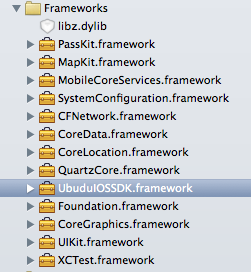
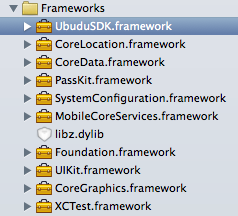
Updated markdown documentation.

diff --git a/README.md b/README.md
@@ -17,31 +17,23 @@ Starting to use the Ubudu SDK on IOS native app should be a 5 to 10 minutes proc
 
 1. Copy UbuduSDK.framework into your project directory and then drag & drop it into the Frameworks folder of your project in XCode.
 
-2. Add the following frameworks to your project:
-  - QuartzCore.framework
+2. Add the following frameworks to your project if their are not already present:
   - CoreLocation.framework
   - CoreData.framework
-  - CFNetwork.framework
+  - PassKit.framework
   - SystemConfiguration.framework
   - MobileCoreServices.framework
-  - MapKit.framework
-  - PassKit.framework
   - libz.dylib
-
-3. Check that these frameworks are also present:
-  - UIKit.framework
-  - CoreGraphics.framework
-  - Foundation.framework
 
   Your framework folder should look like this:
 
   ![Framework list](/__media-files/images/ios_frameworks_list.png) 
 
-4. Go to Target -> Other Linker Flags and add the following flags: *-ObjC -all_load*
+3. Go to Your Target -> "Build Settings" tab -> "Other Linker Flags" and add the following flags: *-ObjC -all_load*
 
   ![Linker flag](/__media-files/images/ios_linker_flags.png) 
 
-5. In your Info.plist add the "location" capability to the "Required background modes" section. In case you plan to use Maps or Passbook in your proximity aware app don't forget also to enable these capabilities. You can do this in the general settings of your project:
+4. In your Info.plist add the "location" capability to the "Required background modes" section. In case you plan to use Maps or Passbook in your proximity aware app don't forget also to enable these capabilities. You can do this in the general settings of your project:
 
   ![Capabilities](/__media-files/images/ios_capabilities.png) 
 
@@ -51,12 +43,11 @@ Starting to use the Ubudu SDK on IOS native app should be a 5 to 10 minutes proc
 To start the SDK use the following code:
 
 ```objective-c
-NSError *error = nil; 
-UbuduSDK *ubuduSDK = [UbuduSDK sharedInstance];
-ubuduSDK.application = [UIApplication sharedApplication];
-ubuduSDK.useNamespace = @"634b207ee2f313c109c58675b44324ac2d41e61e";
-ubuduSDK.delegate = self;
-BOOL started = [ubuduSDK start:&error];
+NSError *error = nil;
+[UbuduSDK sharedInstance].application = [UIApplication sharedApplication];
+[UbuduSDK sharedInstance].useNamespace = @"634b207ee2f313c109c58675b44324ac2d41e61e";
+[UbuduSDK sharedInstance].delegate = self;
+BOOL started = [[UbuduSDK sharedInstance] start:&error];
 if (!started) {
     NSLog(@"UbuduSDK start error: %@", error);
     // Handle error
@@ -73,7 +64,7 @@ The sample resume call can look like this
     NSError *error = nil;
     [[UbuduSDK sharedInstance] resume:application launchOptions:launchOptions error:&error];
   
-  // Rest of app init code…
+    // Rest of app init code…
 }
 ```
 
@@ -81,8 +72,7 @@ Calling **resume:launchOptions:error** method will not start the SDK if it wasn'
 
 When you want the SDK to stop working in the background call 
 ```objective-c
-UbuduSDK *ubuduSDK = [UbuduSDK sharedInstance];
-[ubuduSDK stop];
+[[UbuduSDK sharedInstance] stop];
 ```
 Stopping the SDK will stop it from updating location and tracking geofences.
 
@@ -91,50 +81,37 @@ Full example on how to initialize and start the SDK:
 ```objective-c
 /* AppDelegate.m */
 #import <UbuduSDK/UbuduSDK.h>
-...
+
 @implementation UDAppDelegate
 
 - (BOOL)application:(UIApplication *)application didFinishLaunchingWithOptions:(NSDictionary *)launchOptions
 {
-  //...start initilializations
+  // Mandatory in didFinishLaunchingWithOptions, restores the SDK state
+  NSError *error = nil;
+  [[UbuduSDK sharedInstance] resume:application launchOptions:launchOptions error:&error];
+  if (error != nil) {
+      NSLog(@"UbuduSDK resume error: %@", error);
+  }
 
-  // You can perform this task where you want to start the SDK 
+  // You can perform this task where you want to start the SDK, but the AppDelegate is a good choice
   [self initUbuduSDK];
 
-  // Mandatory in didFinishLaunchingWithOptions
-  NSError * error = nil;
-  [[UbuduSDK sharedInstance] resume:application launchOptions:launchOptions error:&error];
-
-  //...finish initializations
-
+  //...finish app initialization
 }
-
-#pragma mark - UbuduSDK
 
 - (void)initUbuduSDK
 {
-    NSError *error = nil;
-    BOOL deviceSupportsGeofences = [UbuduSDK deviceSupportsGeofences:[UIDevice currentDevice] error:&error];
-    if (error != nil)
-        NSLog(@"UbuduSDK error with deviceSupportsGeofences: %@", error);
-    
-    error = nil;
-    BOOL deviceSupportsBeacons = [UbuduSDK deviceSupportsBeacons:[UIDevice currentDevice] error:&error];
-    if (error != nil)
-        NSLog(@"UbuduSDK error with deviceSupportsBeacons: %@", error);
-    
-    UbuduSDK *ubuduSDK = [UbuduSDK sharedInstance];
-    if ([ubuduSDK isRunning] == NO && deviceSupportsGeofences && deviceSupportsBeacons) {
-        ubuduSDK.application = [UIApplication sharedApplication];
-        ubuduSDK.useNamespace = @"634b207ee2f313c109c58675b44324ac2d41e61e";
-        ubuduSDK.delegate = self;
-        /** optional store in the ext_id id field a specific identifier used by the application to identify user
-        ubuduSDK.user = [[UbuduUser alloc] initWithID:nil withProperties:@{@"ext_id": @"Your client ID"}];
-        */        
+    if ([[UbuduSDK sharedInstance] isRunning] == NO) {
         NSError *error = nil;
-        BOOL started = [ubuduSDK start:&error];
+        [UbuduSDK sharedInstance].application = [UIApplication sharedApplication];
+        [UbuduSDK sharedInstance].useNamespace = @"634b207ee2f313c109c58675b44324ac2d41e61e";
+        [UbuduSDK sharedInstance].delegate = self;
+        /** optionally, provide the ID of your user so we can link the Ubudu user with the IDs of your information system. */
+        //[UbuduSDK sharedInstance].user = [[UbuduUser alloc] initWithID:@"Your client ID" withProperties:@{@"foo_property":@"bar_value"}];
+        BOOL started = [[UbuduSDK sharedInstance] start:&error];
         if (!started) {
             NSLog(@"UbuduSDK start error: %@", error);
+            // Handle error
         }
     }
 }
@@ -144,7 +121,7 @@ The namespace value i.e. `634b207ee2f313c109c58675b44324ac2d41e61e` in the examp
 When you access the back-office web interface in the details of the application you created you will find an example of integration with the correct UID for your application.
 Then still in the App delegate implement the callbacks that you would like to overwrite to handle the actions that have been programmed in the back-office.
 There are 4 types of actions that can be executed when entering or exiting a zone : 
-- Post to a server URL a callback : the server can than "decide" the next action of execute custom code (such as adding entries into a CRM, sending a push  notification or sending a push notification to a client). Note that the SDK will automatically take advantage of some wildcards that you can use to identify the actions in your callback. Example of URL : 'https://yourserver.com/push_event_to_app.json?event=exit&id={id}&udid={udid}'.
+- Post to a server URL a callback : the server can than "decide" the next action or execute custom code (such as adding entries into a CRM, sending a push notification or sending a push notification to a client). Note that the SDK will automatically take advantage of some wildcards that you can use to identify the actions in your callback. Example of URL : 'https://yourserver.com/push_event_to_app.json?event=exit&id={id}&udid={udid}'.
 - Trigger a local notification : a local notification can contain a message, notification type, a scheduled time and a custom payload see [Apple documentation](https://developer.apple.com/library/ios/documentation/iPhone/Reference/UILocalNotification_Class/Reference/Reference.html#//apple_ref/occ/instp/UILocalNotification/alertAction).
 ![Back-office configuration local notification](/__media-files/images/back_office_action_1.jpg) 
 - Open a web-page in a web-view : note that the page can be either online (http or https) or in the application bundle (in this case use the file protocol in the URL).
@@ -177,12 +154,6 @@ If you want to override the behaviour of this action implement the **ubudu:execu
 
 The **ubudu:executeLocalNotificationRequest:triggeredBy:** is called when the SDK performs an action which should result in dispatching a local notification.
 If you want to override this behaviour implement the **ubudu:executeLocalNotificationRequest:triggeredBy:** method in your delegate.
-  
-```objective-c
-  - (void)ubudu:(UbuduSDK *)ubuduSDK didReceiveRegionNotification:(NSDictionary *)notificationData triggeredBy:(UbuduTriggerSource)triggeredBy;
-```
-
-The **ubudu:didReceiveRegionNotification:triggeredBy:** is called when the SDK performs an action which should only notify the delegate without performing any other actions.
 
 ```objective-c
   - (void)ubudu:(UbuduSDK *)ubuduSDK didReceiveNewAdView:(UIView *)view triggeredBy:(UbuduTriggerSource)triggeredBy;
@@ -192,31 +163,26 @@ The **ubudu:didReceiveNewAdView:triggeredBy:** is called when the SDK receives n
 
 
 
-Example of implementation of delegate methods in app:
+Example of implementation of Ubudu SDK delegate methods:
 ```objective-c
 //AppDelegate.m
 
-#pragma mark - Local Notifications
+#pragma mark - UbuduSDKDelegate
 
-- (void)application:(UIApplication *)application didReceiveLocalNotification:(UILocalNotification *)notification
+- (BOOL)ubudu:(UbuduSDK *)ubuduSDK shouldExecuteLocalNotificationRequest:(UILocalNotification *)localNotification triggeredBy:(UbuduTriggerSource)triggeredBy
 {
-    NSString *notifType = [notification.userInfo valueForKeyPath:@"payload.type"];
-
-    // If the notification contains a custom payload that we want to handle
-    // In this case we display a custom alert view instead of posting a normal notification
-    if ([notifType isEqualToString:@"order"])
-    {
-        [self displayOrderAwaitingAlert];
-    }
-    else
-    {
-        // Send back to the SDK the notification (that may have been received in background)
-        // So it can trigger the right action (passbook or web view for example)
-        [[UbuduSDK sharedInstance] receiveLocalNotification:notification];
-    }
+    NSLog(@"Ubudu shouldExecuteLocalNotificationRequest);
+    // Post notification only if it's a new one (avoid presenting multiple identical notification to the user)
+    BOOL hasBeenTriggered = [[Manager sharedManager] hasLocalNotificationBeenTriggered:localNotification.alertBody];
+    return (hasBeenTriggered == NO);
 }
 
-#pragma mark - UbuduSDKDelegate
+- (void)ubudu:(UbuduSDK *)ubuduSDK executeLocalNotificationRequest:(UILocalNotification *)localNotification triggeredBy:(UbuduTriggerSource)triggeredBy
+{
+    NSLog(@"Ubudu executeLocalNotificationRequest localNotification = %@", localNotification);
+    [[Manager sharedManager] markLocalNotificationAsTrigerred:localNotification];
+    [[UIApplication sharedApplication] presentLocalNotificationNow:localNotification];
+}
 
 // Uncomment the following methods to use a custom implementation of the corresponding action
 
@@ -230,22 +196,6 @@ Example of implementation of delegate methods in app:
 //    NSLog(@"Ubudu executeOpenPassbookRequest passbookUrl = %@", passbookUrl);
 //}
 
-// - (void)ubudu:(UbuduSDK *)ubuduSDK didReceiveRegionNotification:(NSDictionary *)notificationData triggeredBy:(UbuduTriggerSource)triggeredBy
-// {
-//     NSLog(@"Ubudu didReceiveRegionNotification notificationData = %@", notificationData);
-// }
-
-- (void)ubudu:(UbuduSDK *)ubuduSDK executeLocalNotificationRequest:(UILocalNotification *)localNotification triggeredBy:(UbuduTriggerSource)triggeredBy
-{
-    NSLog(@"Ubudu executeLocalNotificationRequest localNotification = %@", localNotification);
-    // Post notification only if it's a new one (avoid presenting multiple identical notification to the user)
-    if ([[UDDemoManager sharedManager] hasLocalNotificationBeenTriggered:localNotification] == NO)
-    {
-        [[UDDemoManager sharedManager] markLocalNotificationAsTrigerred:localNotification];
-        [[UIApplication sharedApplication] presentLocalNotificationNow:localNotification];
-    }
-}
-
 - (void)ubudu:(UbuduSDK *)ubuduSDK didReceiveNewAdView:(UIView *)view triggeredBy:(UbuduTriggerSource)triggeredBy;
 {
     NSLog(@"Ubudu didReceiveNewAdView view = %@", view);
@@ -256,13 +206,31 @@ Example of implementation of delegate methods in app:
     NSLog(@"Ubudu didReceiveErrorNotification error = %@", error);
 }
 
+#pragma mark - Local Notifications
+
+- (void)application:(UIApplication *)application didReceiveLocalNotification:(UILocalNotification *)notification
+{
+    NSString *notifType = [notification.userInfo valueForKeyPath:@"payload.type"];
+
+    // If the notification contains a custom payload that we want to handle
+    if ([notifType isEqualToString:@"order"]) {
+        // In this case we display a custom alert view instead of posting the notification
+        [self displayOrderAwaitingAlert:@"Do you want to send your order to preparation now?"];
+    } else {
+        // Send back to the SDK the notification (that may have been received in background)
+        // So it can trigger the right action (passbook or web view for example)
+        [[UbuduSDK sharedInstance] receiveLocalNotification:notification];
+    }
+}
+
 #pragma mark - Click & Collect Alert
 
-- (void)displayOrderAwaitingAlert
+- (void)displayOrderAwaitingAlert:(NSString *)message
 {
     UIAlertView *alert = [[UIAlertView alloc] init];
+    [alert setTag:kAlertTagClickAndCollect];
     [alert setTitle:@"Your order"];
-    [alert setMessage:@"Do you want to send your order to preparation now?"];
+    [alert setMessage:message];
     [alert setDelegate:self];
     [alert addButtonWithTitle:@"No, I'll do it later"];
     [alert addButtonWithTitle:@"Yes"];
@@ -275,7 +243,7 @@ Example of implementation of delegate methods in app:
         // No. Do nothing.
     } else if (buttonIndex == 1) {
         // Yes. Open order summary page.
-        UIViewController * orderSummaryVC = [self.window.rootViewController.storyboard instantiateViewControllerWithIdentifier:@"UDOrderSummaryViewController"];
+        UIViewController *orderSummaryVC = [self.window.rootViewController.storyboard instantiateViewControllerWithIdentifier:@"UDOrderSummaryViewController"];
         [self.window.rootViewController presentViewController:orderSummaryVC animated:YES completion:nil];
     }
 }
